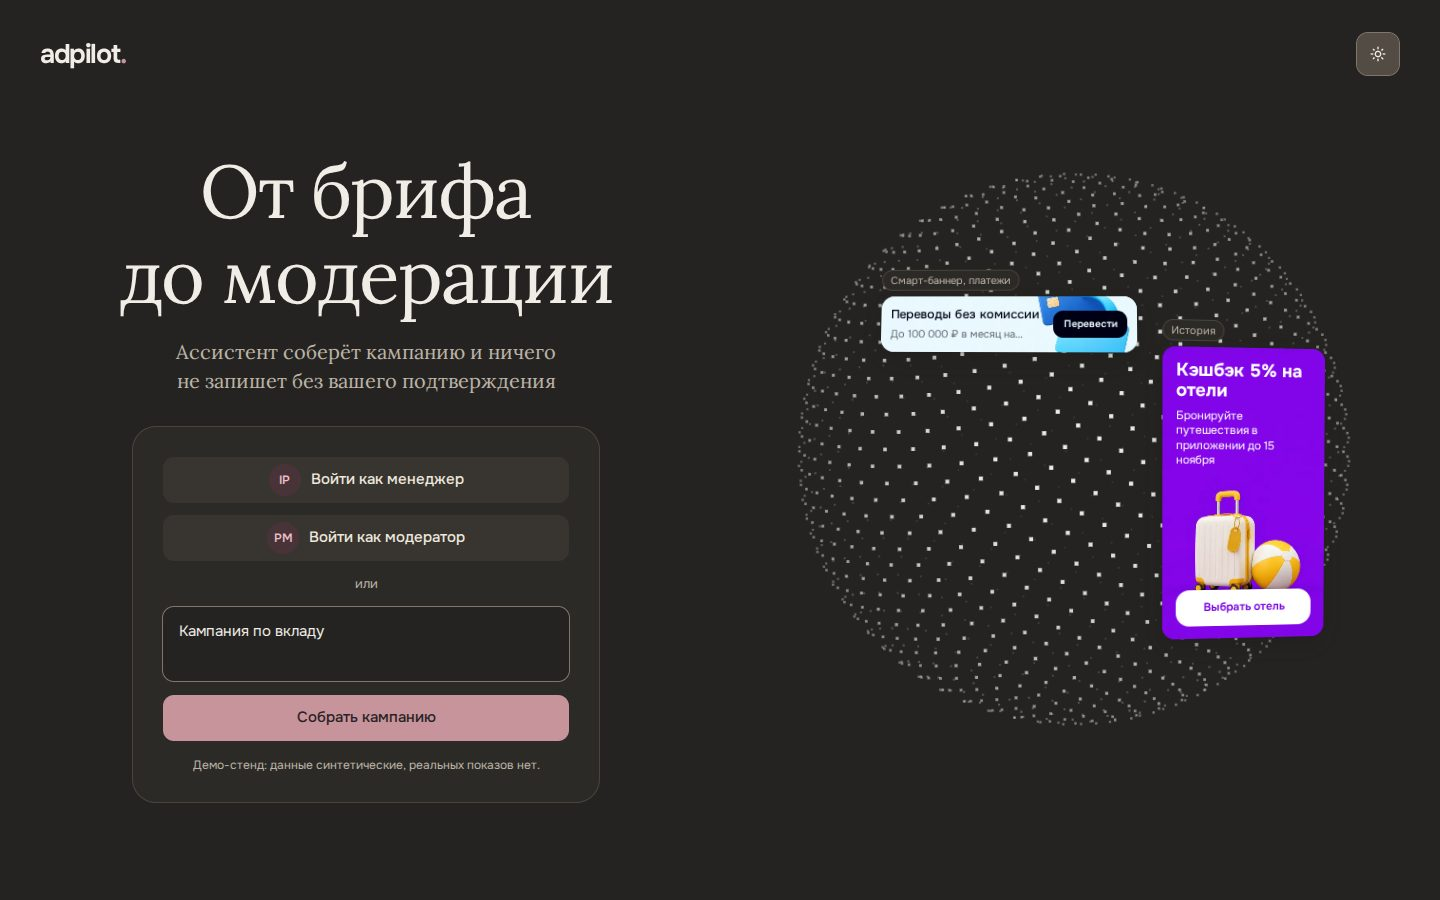
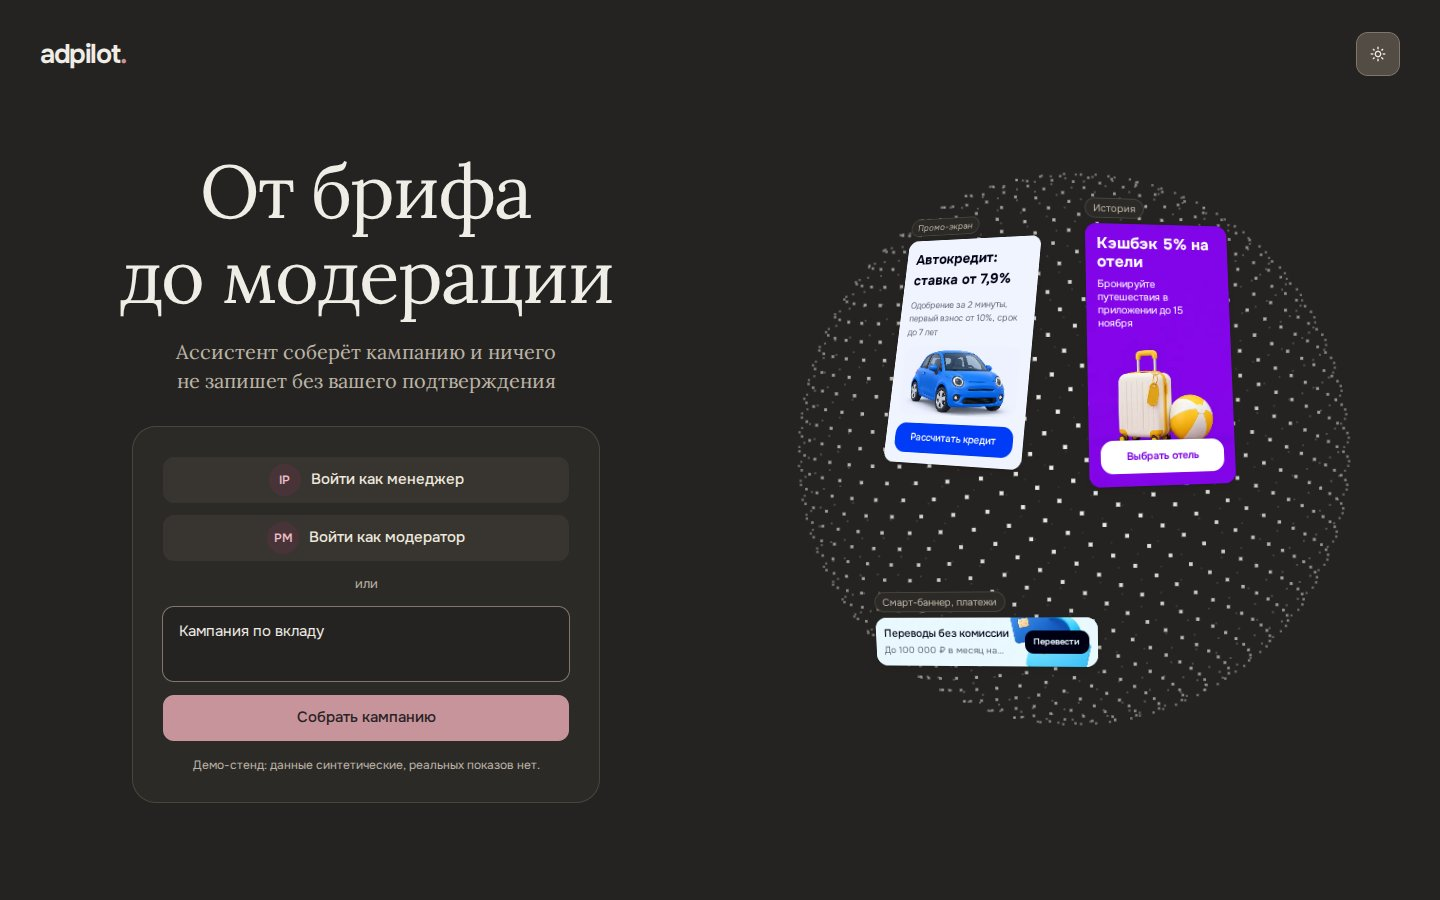
docs: record creatives pressed to entry sphere

Changed region(s): [[0.5938, 0.2178, 0.9375, 0.7467]]

diff --git a/docs/DESIGN.md b/docs/DESIGN.md
@@ -46,7 +46,7 @@ colors:
 
 ## Вход
 
-Первый экран для нового посетителя: слева логотип, заголовок Onest и карточка, справа сфера из точек (Созвездие голосового режима) прямо на фоне страницы, в обеих темах: в светлой точки цвета текста панели, в тёмной светлые. К поверхности сферы прикреплены шесть примеров всех типов креативов: две истории, смарт-баннер на главной, в каталоге и в платежах, промо-экран. Их рисуют те же компоненты, что и превью в панели; над каждым подпись с типом. Тексты, размеры и цвета без изменений из выданных моков (`campaign_banners.json`, `campaign_contents.json`). Адреса картинок в моках не открываются, поэтому картинки в `frontend/public/entry` сгенерированы моделью из `IMAGE_MODEL` по правилам `prompts/design.md`. Сзади сферы карточки гаснут. На ширине ≤900px от карточки остаётся миниатюра с названием в одну строку. Формат взят с референса пользователя, цвета, шрифты и кнопки — из этой системы. Фото из первой версии заменено по просьбе пользователя. Реализация — `frontend/src/features/entry/`.
+Первый экран для нового посетителя: слева логотип, заголовок Onest и карточка, справа сфера из точек (Созвездие голосового режима) прямо на фоне страницы, в обеих темах: в светлой точки цвета текста панели, в тёмной светлые. К поверхности сферы прикреплены шесть примеров всех типов креативов: две истории, смарт-баннер на главной, в каталоге и в платежах, промо-экран. Их рисуют те же компоненты, что и превью в панели; над каждым подпись с типом. Тексты, размеры и цвета без изменений из выданных моков (`campaign_banners.json`, `campaign_contents.json`). Адреса картинок в моках не открываются, поэтому картинки в `frontend/public/entry` сгенерированы моделью из `IMAGE_MODEL` по правилам `prompts/design.md`. Карточки прижаты к контуру: у края сферы они сдвигаются внутрь и поворачиваются по её кривизне, контактная тень короткая. Широты чередуются: истории и промо сверху, смарт-баннеры снизу, поэтому они не наезжают друг на друга. Сзади сферы карточки гаснут. На ширине ≤900px от карточки остаётся миниатюра с названием в одну строку; названия длиннее радиуса сферы, поэтому выступают за контур, а соседние на одной широте сменяют друг друга. Формат взят с референса пользователя, цвета, шрифты и кнопки — из этой системы. Фото из первой версии заменено по просьбе пользователя. Реализация — `frontend/src/features/entry/`.
 
 Карточка содержит вход менеджером, вход модератором, «или», поле брифа и основную кнопку «Собрать кампанию»; кобальт выделяет основную кнопку. Бриф отправляется агенту от менеджера. Вход не аутентифицирует, а выбирает роль для заголовков запросов, поэтому внешних провайдеров и поля почты нет. Подпись карточки сообщает, что данные синтетические и показов нет. «Выйти» находится в меню пользователя.
 

diff --git a/docs/STATUS.md b/docs/STATUS.md
@@ -120,6 +120,8 @@ Production build и lint прошли (прежние предупреждени
 
 На сферу добавлены шесть примеров всех типов креативов с картинками (баннеры 205, 207, 211, 214, 215 и промо-экран 307 из моков), их рисуют компоненты превью панели. Картинки сгенерированы отдельным скриптом моделью из `IMAGE_MODEL` по правилам `prompts/design.md`, а не прогоном агента. Кадры за оборот на 1366×768: видно 2–4 карточки, на части кадров они частично перекрывают друг друга, ближняя лежит сверху. На 390×844 и 360×640 видно по 2 названия, перекрытий нет.
 
+Карточки затем прижаты к контуру сферы, широты чередуются (истории и промо сверху, смарт-баннеры снизу), поворот ослаблен, чтобы текст не выглядел курсивом. Те же измерения, 12 кадров за оборот: на 1440×900 и 1366×768 видно по 3 карточки, перекрытий нет, углы выступают за контур не больше чем на 26 px. На 1024×768 в 5 кадрах из 12 есть небольшое перекрытие (до 1870 px², закрывается часть подписи соседней карточки). На 390×844 и 360×740 видно 1–2 названия, перекрытий нет, за контур они выходят на 15–58 px намеренно: названия длиннее радиуса сферы. Тёмная тема и reduced motion проверены одиночными снимками, горизонтального переполнения и ошибок в консоли нет.
+
 Остаток ключа OpenRouter на 1 ноября 02:45: $2,62 из лимита $8. При параллельной генерации сервис уже отвечал 402, потому что резервирует средства на все запросы сразу; последовательные запросы проходили.
 
 ## Анимации и прокрутка 31.10
